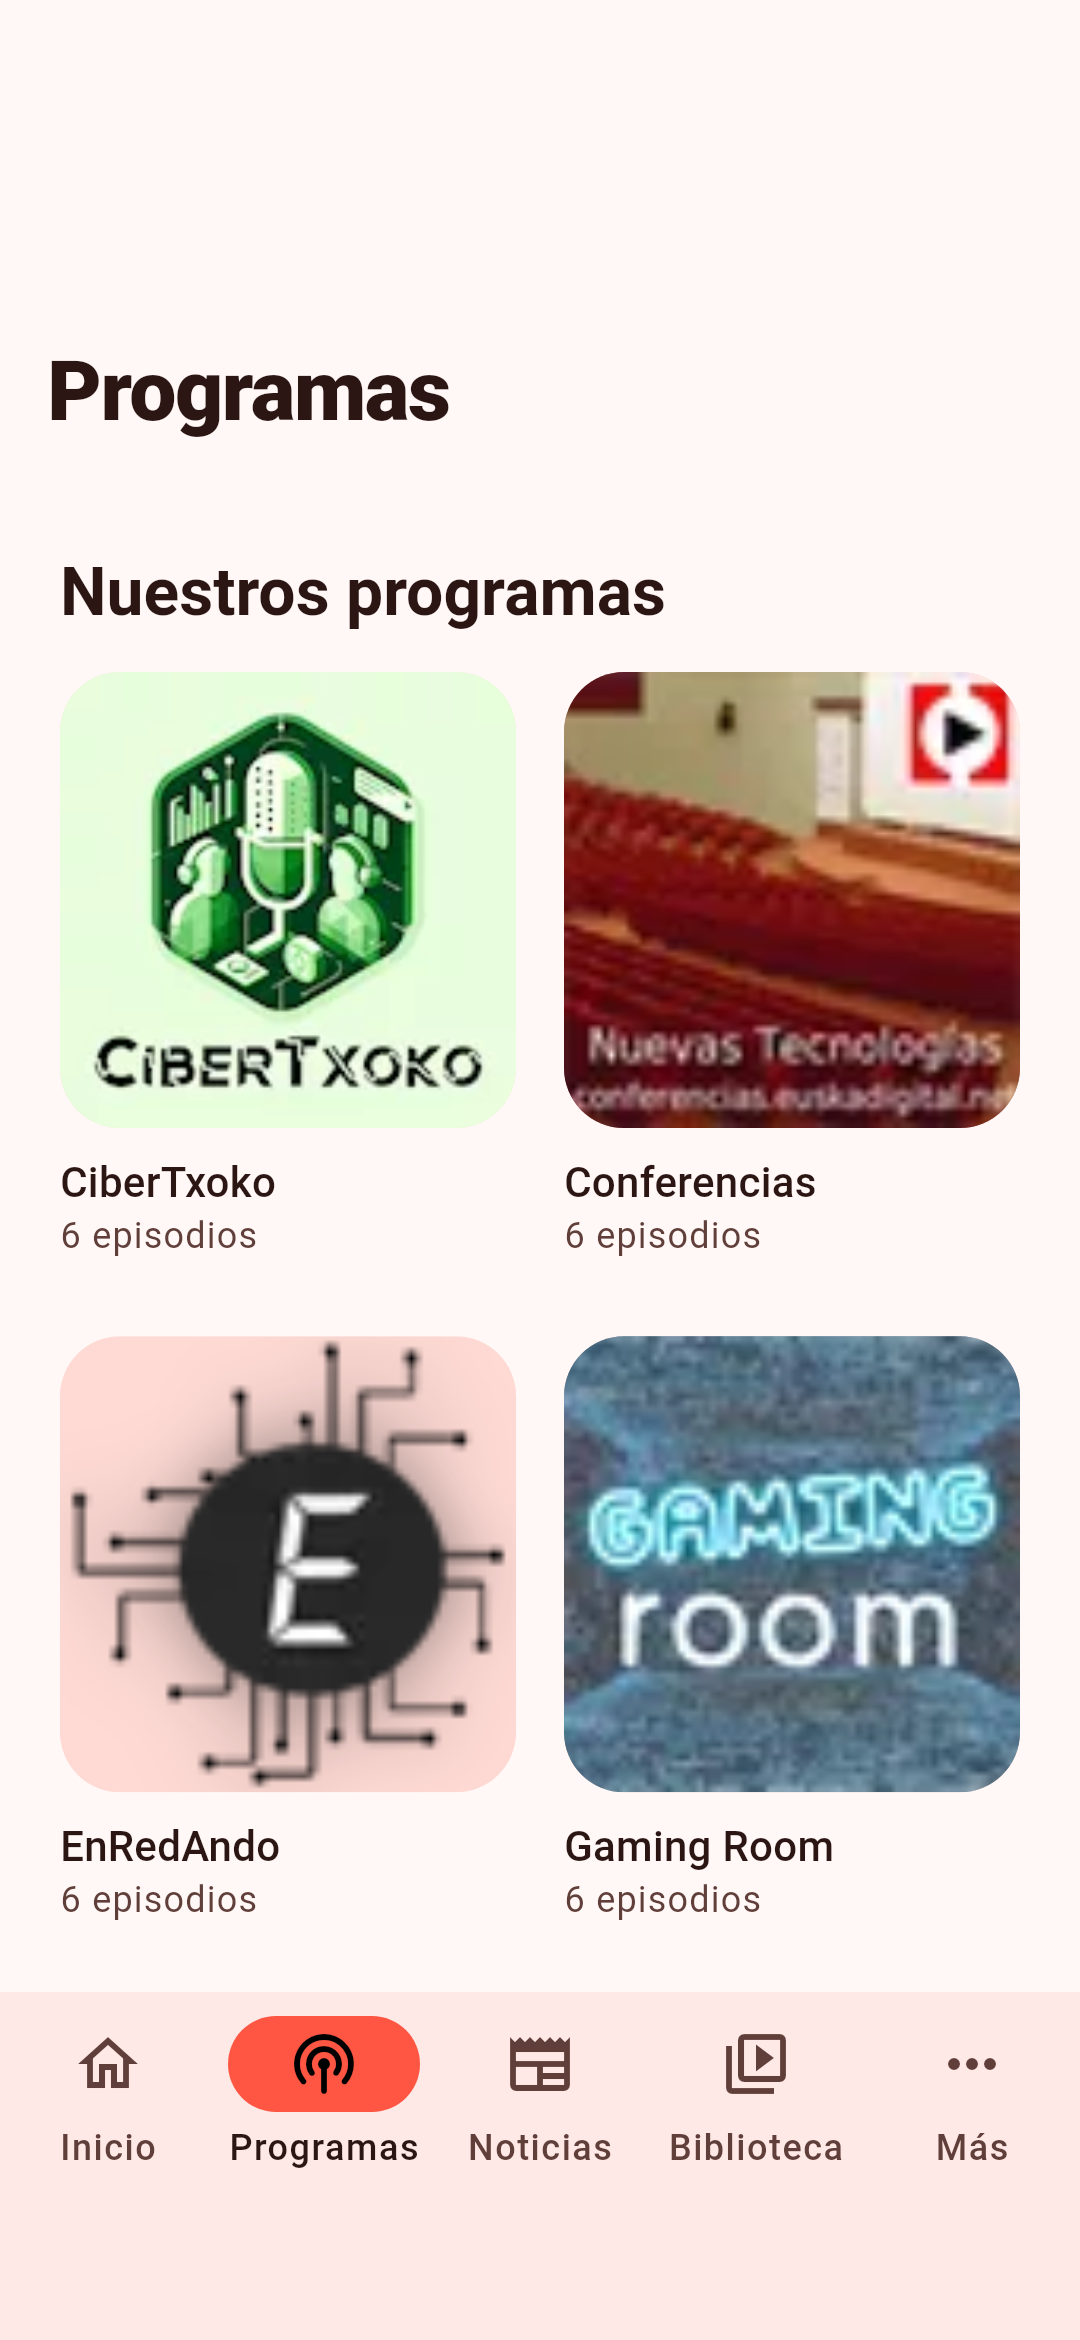
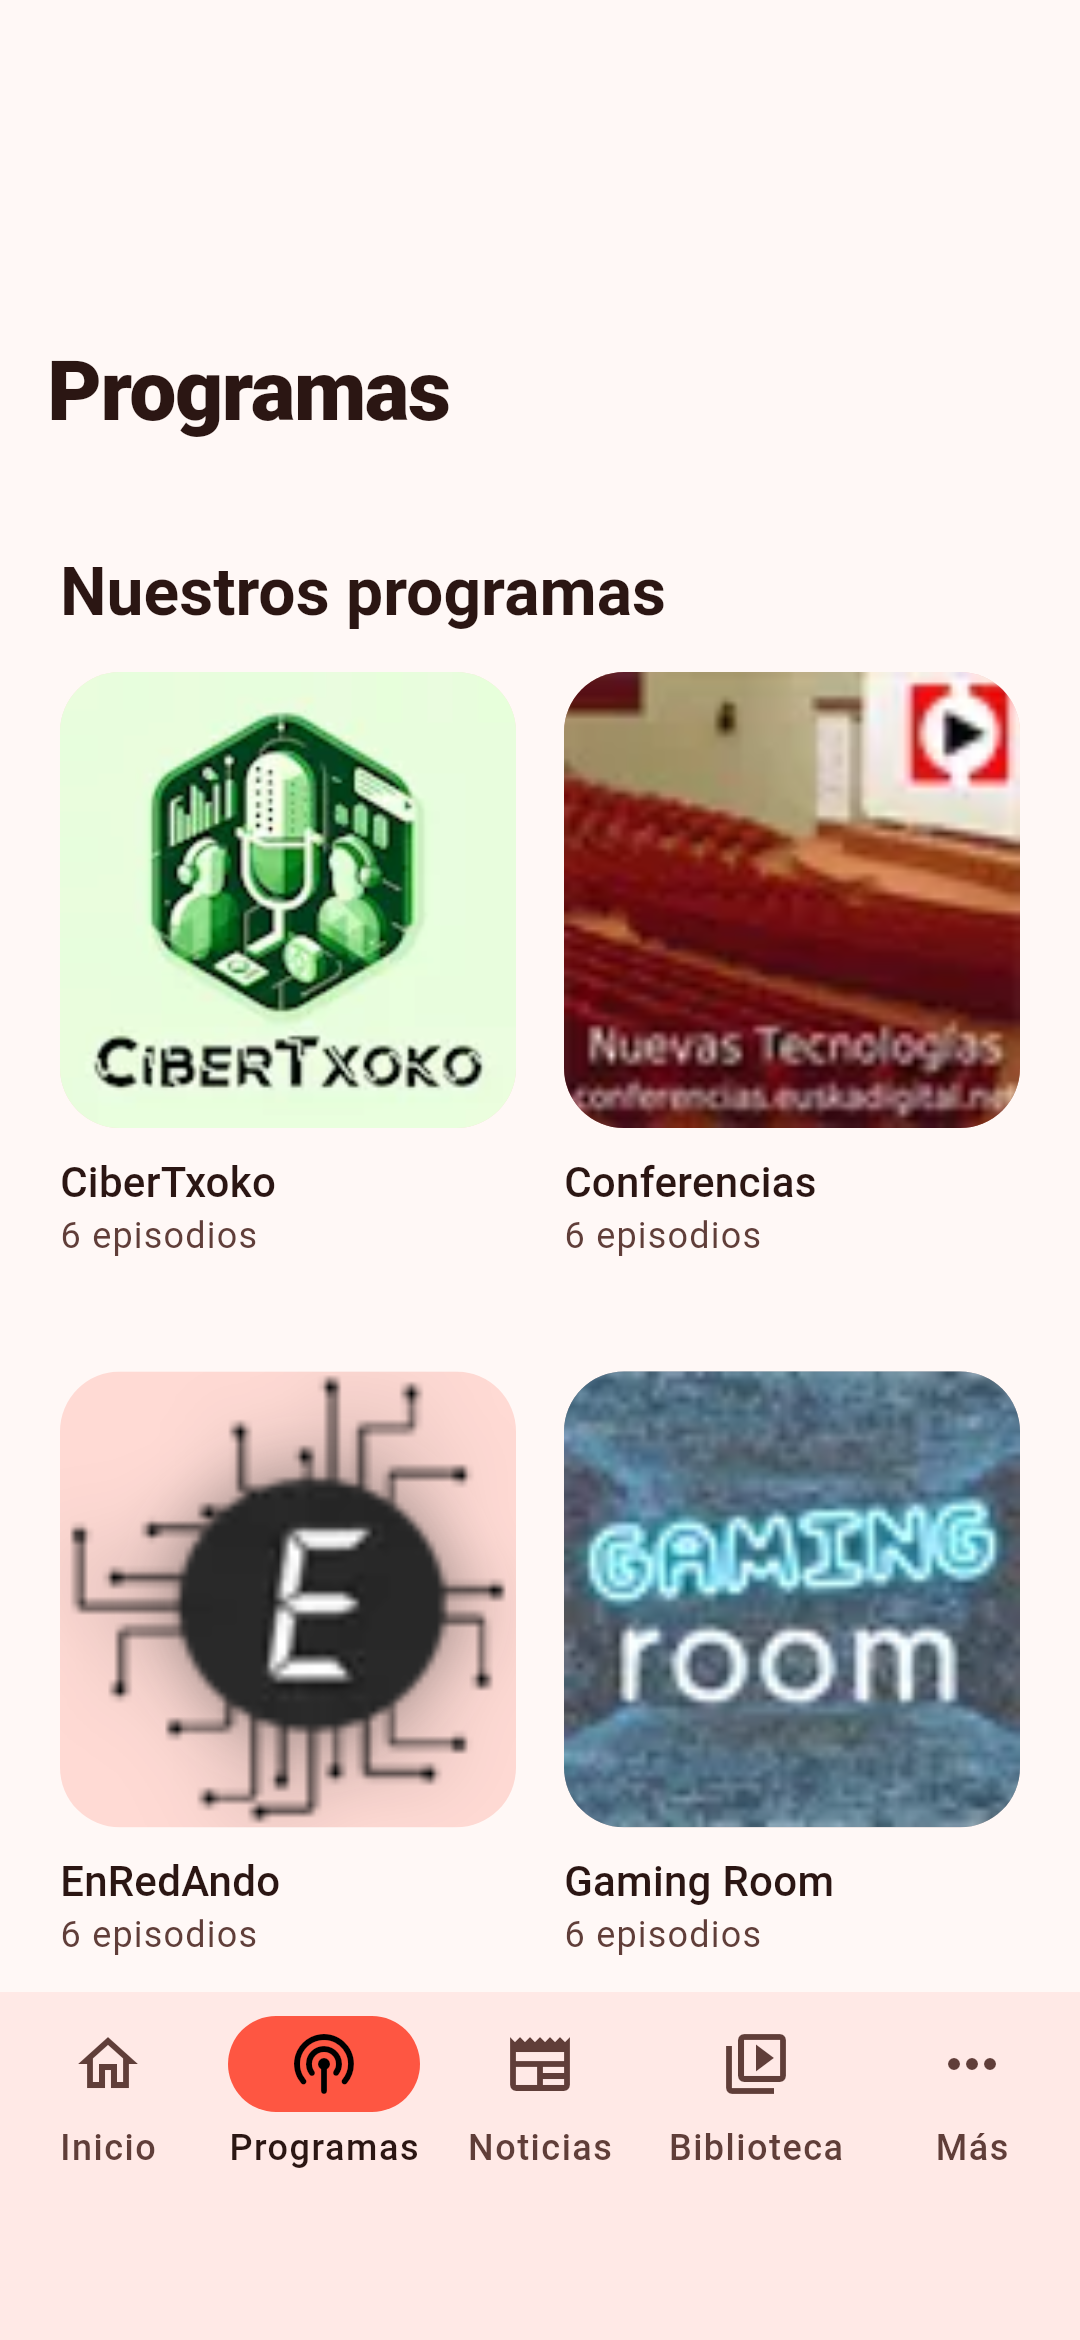
Programas: la portada se adapta y evita desbordes con títulos largos
Claude-Session: https://claude.ai/code/session_016dLWWhA75jkREqA1LiHKKV

Changed region(s): [[0.5194, 0.5615, 0.9472, 0.8423], [0.0611, 0.5615, 0.4889, 0.8423]]

diff --git a/lib/ui/screens/programs_screen.dart b/lib/ui/screens/programs_screen.dart
@@ -34,7 +34,7 @@ class ProgramsScreen extends StatelessWidget {
                     maxCrossAxisExtent: 200,
                     mainAxisSpacing: 16,
                     crossAxisSpacing: 16,
-                    childAspectRatio: 0.74,
+                    childAspectRatio: 0.7,
                   ),
                   itemCount: group.programs.length,
                   itemBuilder: (context, i) => _ProgramCard(program: group.programs[i]),
@@ -69,11 +69,15 @@ class _ProgramCard extends StatelessWidget {
       child: Column(
         crossAxisAlignment: CrossAxisAlignment.start,
         children: [
-          Artwork(
-            url: state.channel?.imageUrl,
-            fallbackAsset: program.fallbackImage,
-            radius: 20,
-            heroTag: 'program-${program.id}',
+          // La portada ocupa el espacio que dejan los textos: con títulos
+          // de dos líneas o letra grande se reduce en vez de desbordarse.
+          Flexible(
+            child: Artwork(
+              url: state.channel?.imageUrl,
+              fallbackAsset: program.fallbackImage,
+              radius: 20,
+              heroTag: 'program-${program.id}',
+            ),
           ),
           const SizedBox(height: 8),
           Text(program.title, maxLines: 2, overflow: TextOverflow.ellipsis, style: theme.textTheme.titleSmall),

diff --git a/test/screenshots/screenshots_test.dart b/test/screenshots/screenshots_test.dart
@@ -196,6 +196,8 @@ void main() {
     await pumpApp(tester, ThemeMode.light);
     await tester.tap(find.text('Programas').last);
     await settle(tester);
+    await tester.scrollUntilVisible(find.text('EnRedAndo'), 200, scrollable: find.byType(Scrollable).last);
+    await settle(tester);
     await tester.tap(find.text('EnRedAndo'));
     await shot(tester, '04_programa');
   });
@@ -273,6 +275,8 @@ void main() {
     await prefs.setStringList('alerts.programs', ['enredando']);
     await pumpApp(tester, ThemeMode.light);
     await tester.tap(find.text('Programas').last);
+    await settle(tester);
+    await tester.scrollUntilVisible(find.text('EnRedAndo'), 200, scrollable: find.byType(Scrollable).last);
     await settle(tester);
     await tester.tap(find.text('EnRedAndo'));
     await shot(tester, '12_programa_aviso');
